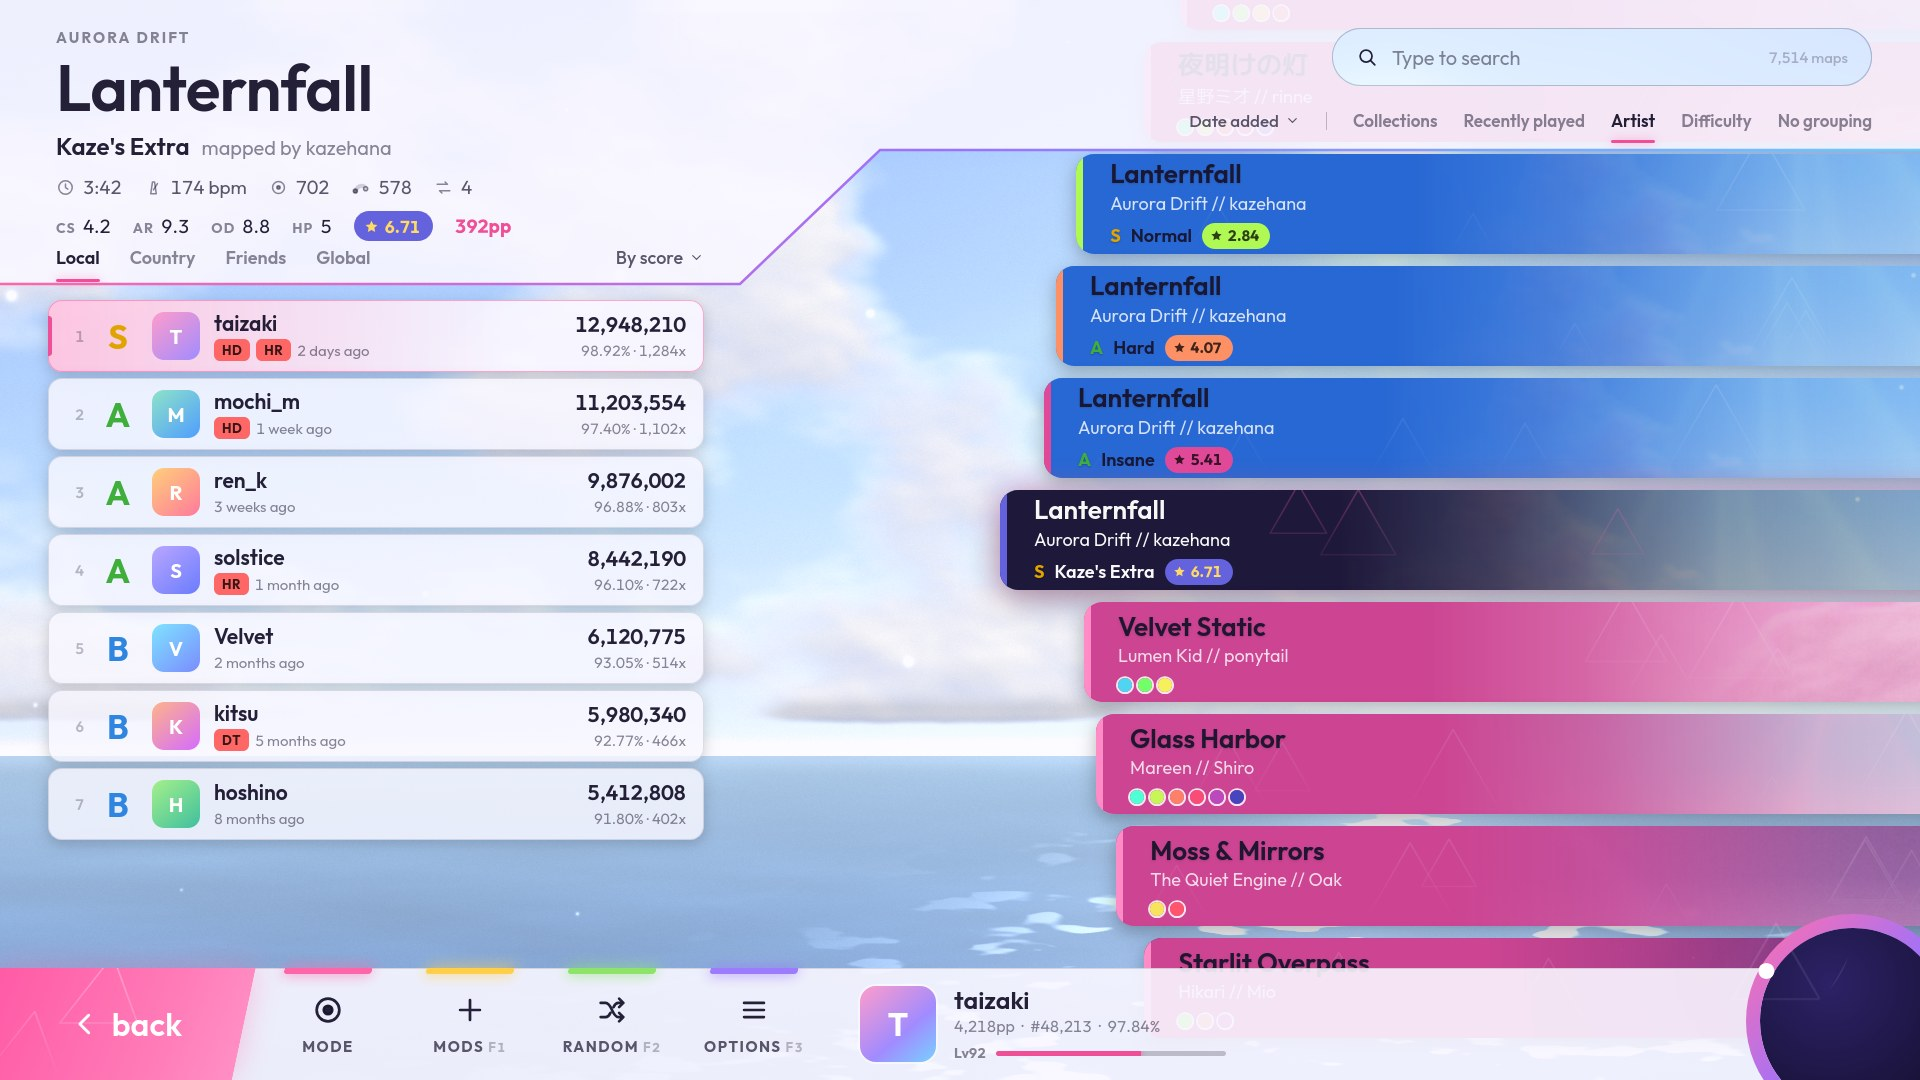
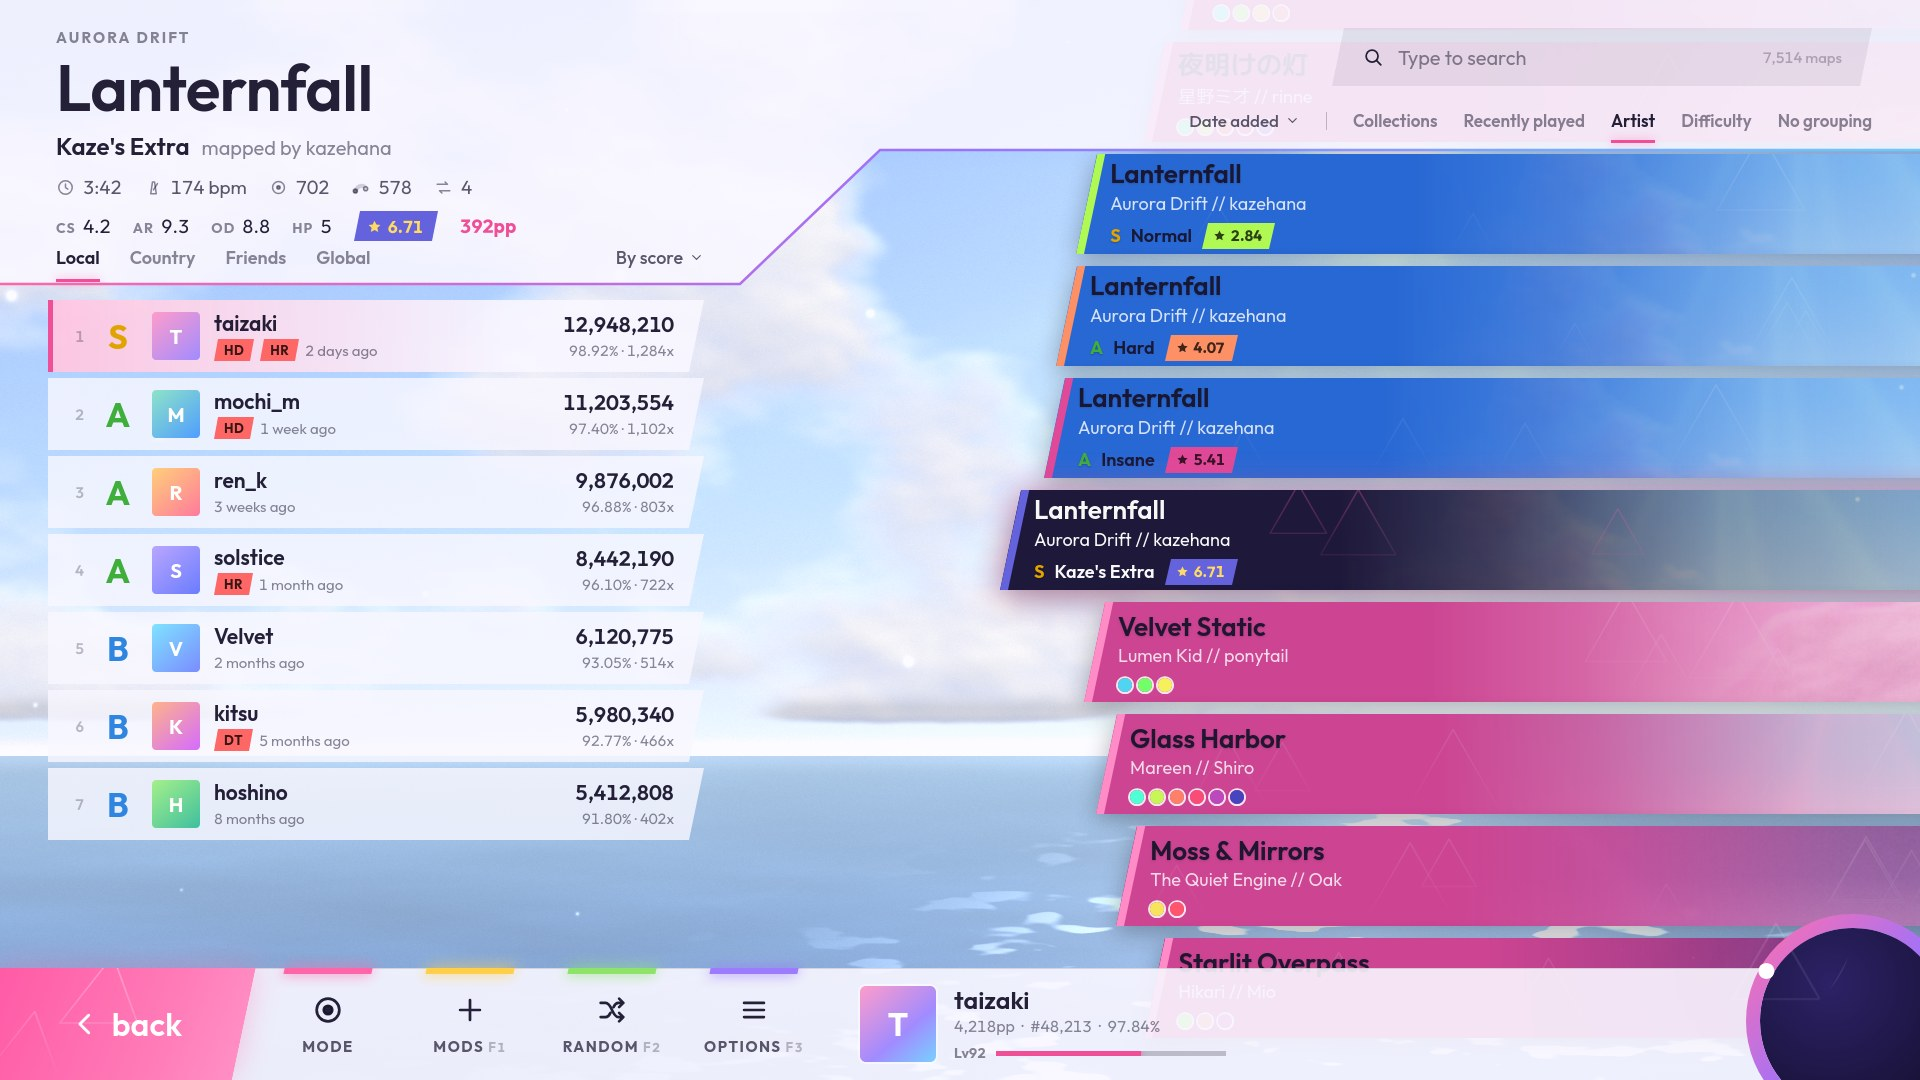
Mockups, round 6: sharp edges with the menu bars' slant
The user: "can you make some elements not rounded like the buttons in
the main menu like the rankings?". Leaderboard rows, carousel cards, the
search field, pills, tab underlines and avatars lose their rounding and
take the main menu bars' 12-degree slant where they have an end to cut.
The logo and the difficulty dots stay round (osu!'s circles).

diff --git a/docs/renovation/mockups/src/round6.css b/docs/renovation/mockups/src/round6.css
@@ -69,11 +69,12 @@ svg.tri { position: absolute; left: 0; top: 0; pointer-events: none; }
 .hairline { position: absolute; left: 0; top: 0; overflow: visible; }
 
 /* the star rating as lazer shows it: a pill in the spectrum colour */
-.star { display: inline-flex; align-items: center; gap: 6px; height: 30px; padding: 0 13px 0 10px; border-radius: 15px; background: var(--c); color: var(--t); font-size: 17px; font-weight: 700; }
+/* sharp, with stable's slant (the user: "make some elements not rounded like the buttons in the main menu") */
+.star { display: inline-flex; align-items: center; gap: 6px; height: 30px; padding: 0 15px 0 13px; clip-path: polygon(6px 0, 100% 0, calc(100% - 6px) 100%, 0 100%); background: var(--c); color: var(--t); font-size: 17px; font-weight: 700; }
 .star .st { width: 15px; height: 15px; }
-.star.sm { height: 26px; padding: 0 11px 0 8px; font-size: 15px; gap: 5px; }
+.star.sm { height: 26px; padding: 0 13px 0 11px; font-size: 15px; gap: 5px; }
 .star.sm .st { width: 13px; height: 13px; }
-.modp { display: inline-grid; place-items: center; height: 22px; padding: 0 8px; border-radius: 6px; background: var(--m); color: rgba(0, 0, 0, 0.78); font-size: 13px; font-weight: 700; letter-spacing: 0.04em; }
+.modp { display: inline-grid; place-items: center; height: 22px; padding: 0 10px; clip-path: polygon(4px 0, 100% 0, calc(100% - 4px) 100%, 0 100%); background: var(--m); color: rgba(0, 0, 0, 0.78); font-size: 13px; font-weight: 700; letter-spacing: 0.04em; }
 .rk { font-weight: 700; }
 
 /* ============================== SONG SELECT ============================== */
@@ -98,27 +99,29 @@ svg.tri { position: absolute; left: 0; top: 0; pointer-events: none; }
 
 .lbtabs { position: absolute; left: 56px; top: 246px; display: flex; gap: 30px; font-size: 18px; font-weight: 600; color: var(--ink-3); width: 648px; }
 .lbtabs .on { color: var(--ink); position: relative; }
-.lbtabs .on::after { content: ""; position: absolute; left: 0; right: 0; top: 33px; height: 3px; border-radius: 2px; background: var(--pink); box-shadow: 0 0 10px rgba(255, 102, 170, 0.6); }
+.lbtabs .on::after { content: ""; position: absolute; left: 0; right: 0; top: 33px; height: 3px; background: var(--pink); box-shadow: 0 0 10px rgba(255, 102, 170, 0.6); }
 .lbtabs .sort { margin-left: auto; font-weight: 500; color: var(--ink-2); display: flex; align-items: center; gap: 6px; }
 
-.search { position: absolute; right: 48px; top: 28px; width: 540px; height: 58px; border-radius: 29px; display: flex; align-items: center; gap: 14px; padding: 0 24px; font-size: 20px; color: var(--ink-3); box-shadow: inset 0 0 0 1px var(--hair-2); }
+.search { position: absolute; right: 48px; top: 28px; width: 540px; height: 58px; clip-path: polygon(12px 0, 100% 0, calc(100% - 12px) 100%, 0 100%); display: flex; align-items: center; gap: 14px; padding: 0 30px; font-size: 20px; color: var(--ink-3); }
+.search.frost { background: rgba(255, 255, 255, 0.1); }
+.v-light .search.frost { background: rgba(24, 20, 44, 0.07); }
 .search .i { font-size: 22px; color: var(--ink); }
 .search b { margin-left: auto; font-size: 15px; font-weight: 500; color: var(--ink-4); }
 .gtabs { position: absolute; right: 48px; top: 110px; display: flex; gap: 26px; align-items: center; font-size: 17px; font-weight: 600; color: var(--ink-3); }
 .gtabs .on { color: var(--ink); position: relative; }
-.gtabs .on::after { content: ""; position: absolute; left: 0; right: 0; top: 30px; height: 3px; border-radius: 2px; background: var(--pink); box-shadow: 0 0 10px rgba(255, 102, 170, 0.6); }
+.gtabs .on::after { content: ""; position: absolute; left: 0; right: 0; top: 30px; height: 3px; background: var(--pink); box-shadow: 0 0 10px rgba(255, 102, 170, 0.6); }
 .gtabs .sep { width: 1px; height: 18px; background: var(--hair-2); }
 .gtabs .sort { color: var(--ink-2); font-weight: 500; display: flex; gap: 6px; align-items: center; }
 .gtabs .sort .i, .lbtabs .sort .i { font-size: 15px; }
 
 .lb { position: absolute; left: 48px; top: 300px; width: 656px; display: flex; flex-direction: column; gap: 6px; }
-.lb .row { position: relative; height: 72px; display: grid; grid-template-columns: 26px 40px 48px 1fr auto; align-items: center; column-gap: 14px; padding: 0 18px 0 10px; border-radius: 14px; background: rgba(var(--scrim), 0.82); box-shadow: inset 0 0 0 1px var(--hair), 0 4px 14px rgba(0, 0, 0, 0.18); }
-.lb .row.me { background: linear-gradient(90deg, rgba(118, 34, 92, 0.94), rgba(var(--scrim), 0.88) 70%); box-shadow: inset 0 0 0 1px rgba(255, 102, 170, 0.55), 0 4px 14px rgba(0, 0, 0, 0.18); }
+.lb .row { position: relative; height: 72px; display: grid; grid-template-columns: 26px 40px 48px 1fr auto; align-items: center; column-gap: 14px; padding: 0 30px 0 10px; clip-path: polygon(0 0, 100% 0, calc(100% - 15px) 100%, 0 100%); background: rgba(var(--scrim), 0.82); }
+.lb .row.me { background: linear-gradient(90deg, rgba(118, 34, 92, 0.94), rgba(var(--scrim), 0.88) 70%); }
 .v-light .lb .row.me { background: linear-gradient(90deg, rgba(255, 196, 224, 0.95), rgba(var(--scrim), 0.9) 70%); }
-.lb .row.me::before { content: ""; position: absolute; left: 0; top: 16px; bottom: 16px; width: 4px; border-radius: 0 3px 3px 0; background: var(--pink); }
+.lb .row.me::before { content: ""; position: absolute; left: 0; top: 0; bottom: 0; width: 5px; background: var(--pink); }
 .lb .n { font-size: 15px; font-weight: 600; color: var(--ink-4); text-align: right; }
 .lb .g { font-size: 34px; text-align: center; line-height: 1; }
-.lb .av { width: 48px; height: 48px; border-radius: 12px; display: grid; place-items: center; font-size: 20px; font-weight: 700; color: #fff; }
+.lb .av { width: 48px; height: 48px; border-radius: 4px; display: grid; place-items: center; font-size: 20px; font-weight: 700; color: #fff; }
 .lb .who b { display: block; font-size: 21px; font-weight: 600; line-height: 1.1; }
 .lb .who small { display: flex; gap: 6px; align-items: center; font-size: 15px; color: var(--ink-3); margin-top: 5px; }
 .lb .sc { text-align: right; }
@@ -126,15 +129,16 @@ svg.tri { position: absolute; left: 0; top: 0; pointer-events: none; }
 .lb .sc small { display: block; font-size: 15px; color: var(--ink-3); margin-top: 5px; }
 
 .car { position: absolute; left: 0; right: 0; top: 0; bottom: 0; overflow: hidden; pointer-events: none; z-index: 0; }
-.card { position: absolute; width: 1000px; height: 100px; border-radius: 18px 0 0 18px; overflow: hidden; background: var(--art) center / cover;
-        box-shadow: 0 6px 18px rgba(0, 0, 0, 0.28); }
+.cw { position: absolute; filter: drop-shadow(0 6px 12px rgba(0, 0, 0, 0.3)); }
+.cw.sel { filter: drop-shadow(0 8px 16px rgba(0, 0, 0, 0.3)) drop-shadow(0 0 16px rgba(255, 102, 170, 0.5)); }
+.card { position: relative; width: 1000px; height: 100px; overflow: hidden; background: var(--art) center / cover; clip-path: polygon(21px 0, 100% 0, 100% 100%, 0 100%); }
 .card .tint { position: absolute; inset: 0; background: linear-gradient(90deg, rgb(var(--c)) 0, rgb(var(--c)) 34%, rgba(var(--c), 0.82) 50%, rgba(var(--c), 0.42) 72%, rgba(var(--c), 0.22) 100%); }
 .card.set { --c: 204, 68, 146; --mark: #ff8cc6; }
 .card.diff { --c: 40, 104, 212; }
-.card.sel { --c: 255, 255, 255; box-shadow: 0 10px 34px rgba(0, 0, 0, 0.3), 0 0 30px rgba(255, 102, 170, 0.45);
+.card.sel { --c: 255, 255, 255;
             --ink: var(--sel-ink); --ink-2: var(--sel-ink-2); --ink-3: var(--sel-ink-2); color: var(--ink); }
 .v-light .card.sel { --c: 30, 24, 58; }
-.card::before { content: ""; position: absolute; left: 0; top: 0; bottom: 0; width: 7px; background: var(--mark); z-index: 2; }
+.card::before { content: ""; position: absolute; left: 0; top: 0; bottom: 0; width: 8px; transform: skewX(-12deg); transform-origin: bottom left; background: var(--mark); z-index: 2; }
 .card .tx { position: absolute; left: 34px; top: 0; bottom: 0; display: flex; flex-direction: column; justify-content: center; gap: 4px; z-index: 1; }
 .card .t { font-size: 26px; font-weight: 600; white-space: nowrap; line-height: 1.1; text-shadow: 0 1px 2px rgba(0, 0, 0, 0.15); }
 .card:not(.sel) .a { color: rgba(255, 255, 255, 0.8); }
@@ -154,13 +158,13 @@ svg.tri { position: absolute; left: 0; top: 0; pointer-events: none; }
 .fb .i { font-size: 34px; }
 .fb span { font-size: 15px; font-weight: 700; letter-spacing: 0.1em; text-transform: uppercase; color: var(--ink-2); }
 .fb span small { color: var(--ink-4); font-size: 13px; margin-left: 4px; }
-.fb::before { content: ""; position: absolute; top: 0; left: 22px; right: 22px; height: 6px; transform: skewX(-12deg); border-radius: 0 0 3px 3px; background: var(--c); box-shadow: 0 0 14px var(--c); }
+.fb::before { content: ""; position: absolute; top: 0; left: 22px; right: 22px; height: 6px; transform: skewX(-12deg); background: var(--c); box-shadow: 0 0 14px var(--c); }
 .user { position: absolute; left: 860px; top: 0; bottom: 0; display: flex; align-items: center; gap: 18px; }
-.user .av { width: 76px; height: 76px; border-radius: 16px; display: grid; place-items: center; font-size: 32px; font-weight: 700; color: #fff; background: linear-gradient(140deg, #ff9ccb, #a18bff 60%, #79d0ff); box-shadow: 0 0 0 2px rgba(255, 255, 255, 0.5); }
+.user .av { width: 76px; height: 76px; border-radius: 6px; display: grid; place-items: center; font-size: 32px; font-weight: 700; color: #fff; background: linear-gradient(140deg, #ff9ccb, #a18bff 60%, #79d0ff); box-shadow: 0 0 0 2px rgba(255, 255, 255, 0.5); }
 .user b { display: block; font-size: 25px; font-weight: 600; line-height: 1.1; }
 .user small { display: block; font-size: 16px; color: var(--ink-3); margin-top: 3px; }
 .user .lvr { display: flex; align-items: center; gap: 10px; margin-top: 8px; font-size: 14px; font-weight: 700; color: var(--ink-3); }
-.user .lv { width: 230px; height: 5px; border-radius: 3px; background: var(--hair-2); overflow: hidden; }
+.user .lv { width: 230px; height: 5px; background: var(--hair-2); overflow: hidden; }
 .user .lv i { display: block; width: 63%; height: 100%; background: var(--pink); box-shadow: 0 0 8px var(--pink); }
 
 /* the logo: a dark disc, a thick ring graded pink to violet to sky, the hit dot, the wordmark */
@@ -188,11 +192,11 @@ canvas.viz { position: absolute; left: 0; top: 0; width: 1920px; height: 1080px;
 .mb.on small { color: rgba(255, 255, 255, 0.85); }
 
 .topl { position: absolute; left: 44px; top: 34px; display: flex; align-items: center; gap: 20px; }
-.topl .av { width: 84px; height: 84px; border-radius: 18px; display: grid; place-items: center; font-size: 36px; font-weight: 700; color: #fff; background: linear-gradient(140deg, #ff9ccb, #a18bff 60%, #79d0ff); box-shadow: 0 0 0 2px rgba(255, 255, 255, 0.5); }
+.topl .av { width: 84px; height: 84px; border-radius: 6px; display: grid; place-items: center; font-size: 36px; font-weight: 700; color: #fff; background: linear-gradient(140deg, #ff9ccb, #a18bff 60%, #79d0ff); box-shadow: 0 0 0 2px rgba(255, 255, 255, 0.5); }
 .topl b { display: block; font-size: 28px; font-weight: 600; line-height: 1.1; }
 .topl small { display: block; font-size: 17px; color: var(--ink-2); margin-top: 4px; }
 .topl .lvr { display: flex; align-items: center; gap: 10px; margin-top: 9px; font-size: 14px; font-weight: 700; color: var(--ink-3); }
-.topl .lv { width: 240px; height: 5px; border-radius: 3px; background: var(--hair-2); overflow: hidden; }
+.topl .lv { width: 240px; height: 5px; background: var(--hair-2); overflow: hidden; }
 .topl .lv i { display: block; width: 63%; height: 100%; background: var(--pink); box-shadow: 0 0 8px var(--pink); }
 .topr { position: absolute; right: 44px; top: 34px; width: 470px; }
 .topr .caps { color: var(--pink); font-size: 13px; display: flex; align-items: center; gap: 8px; justify-content: flex-end; }
@@ -200,15 +204,15 @@ canvas.viz { position: absolute; left: 0; top: 0; width: 1920px; height: 1080px;
 .topr .song small { color: var(--ink-3); font-size: 19px; font-weight: 400; margin-left: 10px; }
 .topr .row { display: flex; align-items: center; gap: 14px; margin-top: 12px; }
 .topr .btns { display: flex; gap: 4px; }
-.topr .btns span { width: 40px; height: 36px; display: grid; place-items: center; border-radius: 8px; font-size: 19px; color: var(--ink-2); }
+.topr .btns span { width: 40px; height: 36px; display: grid; place-items: center; clip-path: polygon(6px 0, 100% 0, calc(100% - 6px) 100%, 0 100%); font-size: 19px; color: var(--ink-2); }
 .topr .btns span.on { background: rgba(255, 255, 255, 0.14); color: var(--ink); }
-.topr .bar { flex: 1; height: 5px; border-radius: 3px; background: var(--hair-2); overflow: hidden; }
+.topr .bar { flex: 1; height: 5px; background: var(--hair-2); overflow: hidden; }
 .topr .bar i { display: block; width: 38%; height: 100%; background: var(--pink); box-shadow: 0 0 8px var(--pink); }
 .topr .tm { font-size: 14px; font-weight: 600; color: var(--ink-3); }
 .foot-l { position: absolute; left: 44px; bottom: 34px; font-size: 16px; color: var(--ink-3); }
 .foot-l b { color: var(--ink); font-weight: 600; }
 .foot-c { position: absolute; left: 0; right: 0; bottom: 32px; display: flex; justify-content: center; align-items: center; gap: 12px; font-size: 18px; color: var(--ink-2); }
-.foot-c .tag { font-size: 12px; font-weight: 700; letter-spacing: 0.14em; color: #fff; background: var(--pink); border-radius: 6px; padding: 3px 8px; }
+.foot-c .tag { font-size: 12px; font-weight: 700; letter-spacing: 0.14em; color: #fff; background: var(--pink); clip-path: polygon(4px 0, 100% 0, calc(100% - 4px) 100%, 0 100%); padding: 3px 10px; }
 .foot-c b { font-weight: 600; color: var(--ink); }
 .foot-r { position: absolute; right: 44px; bottom: 34px; display: flex; gap: 28px; font-size: 16px; color: var(--ink-2); }
 .foot-r span { display: flex; align-items: center; gap: 9px; }

diff --git a/docs/renovation/mockups/src/songselect6.html b/docs/renovation/mockups/src/songselect6.html
@@ -84,15 +84,19 @@ let y = CY - H / 2 - sel * (H + GAP);
 items.forEach((it) => {
   const mid = y + H / 2, dist = Math.abs(mid - CY);
   const x = 1000 + (it.sel ? 0 : it.k === "diff" ? 40 : 80) + dist * dist * 0.00032;
+  const wrap = document.createElement("div");
+  wrap.className = `cw${it.sel ? " sel" : ""}`;
+  wrap.style.cssText = `left:${x}px;top:${y}px`;
   const el = document.createElement("div");
   el.className = `card ${it.k}${it.sel ? " sel" : ""}`;
-  el.style.cssText = `left:${x}px;top:${y}px;--art:url(art/${it.art}.png)` + (it.k === "diff" ? `;--mark:${starColour(it.sr)}` : "");
+  el.style.cssText = `--art:url(art/${it.art}.png)` + (it.k === "diff" ? `;--mark:${starColour(it.sr)}` : "");
+  wrap.appendChild(el);
   const row = it.k === "diff"
     ? `<div class="d"><span class="rk" style="color:${gradeColour[it.g]}">${it.g}</span>${it.d}${starPill(it.sr, "sm")}</div>`
     : `<div class="dots">${it.diffs.map((s) => `<i style="--c:${starColour(s)}"></i>`).join("")}</div>`;
   el.innerHTML = `<div class="tint"></div>${triangles(7 + y, 1000, 100, { count: 10, size: 80, stroke: 1.6, colour: it.sel ? "#ff66aa" : "#ffffff", opacity: it.sel ? 0.28 : 0.12 })}
     <div class="tx"><div class="t">${it.t}</div><div class="a">${it.a}</div>${row}</div>`;
-  car.appendChild(el);
+  car.appendChild(wrap);
   y += H + GAP;
 });
 
